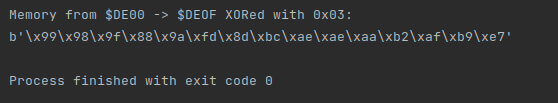
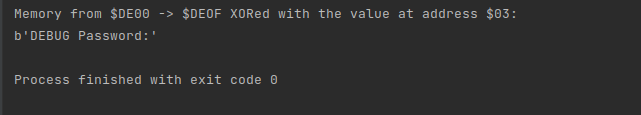
Finish writeup of old school

Changed region(s): [[0.0, 0.2621, 0.914, 0.4078], [0.0, 0.0583, 0.8226, 0.2039], [0.0, 0.6408, 0.4875, 0.8447]]

diff --git a/reverse_engineering/old_school/5_extract_constants.py b/reverse_engineering/old_school/5_extract_constants.py
@@ -1,4 +1,39 @@
 with open("Reaper.bin", "rb") as f:
-    print("Memory from $DE00 -> $DEOF XORed with 0x03:")
-    f.seek(0xDE00)
-    print(bytes([x ^ 0x03 for x in f.read(0x0F)]))
+    reaper_bin = list(f.read())
+
+    print("Memory from $DE00 -> $DEOF XORed with the value at address $03:")
+    xor_constant = reaper_bin[0x03]
+    print(bytes([x ^ xor_constant for x in reaper_bin[0xDE00:0xDE0F]]))
+
+    print("Memory from $DD50 -> $DD6e XORed with indirect values from addresses stored at $03 -> $21:")
+    payload = []
+    for i in range(0x1e):
+        # Load A from memory
+        A = reaper_bin[0xDD50 + i]
+
+        # Alpha indirect addressing implementation:
+        # uint64_t rax_559 = (arg1[1] + r11[1]);
+        # bool rdx_379 = rcx[(rcx[rax_559] | (rcx[(rax_559 + 1)] << 8))];
+
+        indirect_address = 0x03 + i
+        address = reaper_bin[indirect_address] | (reaper_bin[(indirect_address + 1)] << 8)
+        value = reaper_bin[address]
+
+        A ^= value
+
+        payload.append(A)
+    print(bytes(payload))
+
+    print("Memory from $DD80 XORed with the value at address $DE:")
+    xor_constant = reaper_bin[0xDE]
+
+    payload = []
+    i = 0
+    while (c := reaper_bin[0xDD80 + i]) != 0x00:
+        payload.append(c ^ xor_constant)
+        i += 1
+
+    print(bytes(payload))
+
+
+

diff --git a/reverse_engineering/old_school/README.md b/reverse_engineering/old_school/README.md
@@ -18,6 +18,7 @@ By the process of elimination, that file is probably `Reaper.bin`. Let's try it 
 
 Nice! Seems like `Reaper.bin` probably contains some small program that requires us to provide a password,
 which we'll give to access the key.
+When we enter `30` characters into the password prompt, the screen is cleared.
 
 ## Part 2 - The ROM
 
@@ -185,6 +186,7 @@ Here is a quick reference table (homemade) for the instructions this program use
 | INX         | Increment X             | Add `1` to the `X` register                                                                                                        |
 | DEC         | Decrement               | Decrement a value in memory.                                                                                                       |
 |             | ----------------------- | ---------------------------------------------------------------------------------------------------------------------------------- |
+| CMP         | Compare against A       | Compare the value in the `A` register to some value, saving whether it was equal, less than, or greater than to the **CPU flags**  |
 | CPX         | Compare against X       | Compare the value in the `X` register to some value, saving whether it was equal, less than, or greater than to the **CPU flags**  |
 | BNE         | Branch if not equal     | Jump execution to a different location in the code if the last comparison **did not** set the `equals` cpu flag.                   |
 | BEQ         | Branch if equal         | Jump execution to a different location in the code if the last comparison set the `equals` cpu flag.                               |
@@ -194,7 +196,7 @@ Here is a quick reference table (homemade) for the instructions this program use
 | RTS         | Return from Subroutine  | Jump execution back to the code that called this subroutine.                                                                       |
 
 With this, we should now be able to analyze our subroutines instruction-by-instruction.
-Let's dive into deciphering the meaning of each! We'll start with the subroutines that don't call any others:
+Let's dive into deciphering the meaning of each!
 
 ### Subroutine 1
 
@@ -204,7 +206,7 @@ Let's dive into deciphering the meaning of each! We'll start with the subroutine
 101E   8D 60 20             STA $2060
 1021   A2 00                LDX #$00    ; Set X to 0
 1023   BD 00 DE   L1023     LDA $DE00,X ; Load the value at memory address $DE00 + X to A
-1026   45 03                EOR $03     ; XOR A with 0x03
+1026   45 03                EOR $03     ; XOR A with the value stored at address 0x03
 1028   9D 61 20             STA $2061,X ; Store A to the memory address $2061 + X
 102B   E8                   INX         ; Increment X
 102C   E0 0F                CPX #$0F    ; If X is not equal to 0x0F, branch back to offset L1023
@@ -219,24 +221,29 @@ So for `X=0`, we'd load from `$DE00`, but for `X=5`, we'd load from `$DE05`
 
 With these translations, we can start to get an idea of what the program is doing.
 First, it stores one byte to `$2060`.
-Then in a loop, it takes one byte from memory, XORs it with `0x03`, and stores it back to a different point in memory.
+Then in a loop, it takes one byte from memory, XORs it with the value stored at `0x03`, and stores it back to a different point in memory.
 
-Ultimately, it takes the block of memory from `$DE00` to `$DE0F`, and writes it back to the location `$2061` (XORed by `0x03`).
+Ultimately, it takes the block of memory from `$DE00` to `$DE0F`, and writes it back to the location `$2061` (XORed by some value).
 
-A quick python script to perform this operation and print it out doesn't reveal anything useful (yet), but it's good to keep in mind.
+A quick python script to perform this operation:
 
 [5_extract_constants.py](./5_extract_constants.py)
 
 ```py
 with open("Reaper.bin", "rb") as f:
-    print("Memory from $DE00 -> $DEOF XORed with 0x03:")
-    f.seek(0xDE00)
-    print(bytes([x ^ 0x03 for x in f.read(0x0F)]))
+    reaper_bin = list(f.read())
+
+    print("Memory from $DE00 -> $DEOF XORed with the value at address $03:")
+    xor_constant = reaper_bin[0x03]
+    print(bytes([x ^ xor_constant for x in reaper_bin[0xDE00:0xDE0F]]))
 ```
 
 ![](./_images/de00-de0f.png)
 
-Maybe this could be preparing a set of data to use later. We'll call this function `preprocess_data`.
+This seems to be the prompt we're given when the program starts!
+This likely means that the address it is written, `$2061`, is some sort of output/screen buffer. That's good to keep in mind.
+
+We'll call this function `write_prompt`
 
 ### Subroutine 3
 
@@ -249,15 +256,218 @@ Maybe this could be preparing a set of data to use later. We'll call this functi
 
 This subroutine is simple, but obscure.
 We'll hope for now that we can better analyze it in context.
-We'll call this function `load_c000`
+We'll call this function `load_c000 -> A`
+
+### Subroutine 2
+
+```asm
+; Subroutine 2
+1031   AD 02 F0   L1031     LDA $F001   ; Load the value at address $F001 to A
+1034   F0 FB                BEQ L1031   ; Loop if the value read was 0
+1036   20 45 10             JSR L1045   ; Call the "load_c000 -> A" subroutine
+1039   9D 10 DD             STA $DD10,X ; Store A to [$DD10 + X]
+103C   9D 71 20             STA $2071,X ; Store A to [$2071 + X]
+103F   E8                   INX         ; Increment X by 1
+1040   E0 1E                CPX #$1E    ; Loop if X is not equal to 0x1E
+1042   D0 ED                BNE L1031
+1044   60                   RTS         ; Exit the subroutine
+```
+
+This subroutine is another loop indexed with `X`.
+
+The first two instructions are a smaller, nested loop, jumping back and forth until $F001 is 0.
+Nothing here changes that address, so this must be some a special memory location that updates in response to something outside the program.
+
+Once the change is detected, the `load_c000 -> A` function is called.
+`c000` is another address that is never modified, maybe it is also a special location that updates for user input?
+
+The value of A is then stored to both a section of memory `$DD10` and our output/screen buffer from before!
+
+Putting all of this together, it seems like this function is mostly likely an "input collection" routine,
+reading characters of user input and writing them back to the screen and storing them in a location `$DD10`.
+This perfectly explains why we need to type `0x1e` (30) characters for the program to advance!
+
+We'll call this subroutine `input`, and we'll call the block of data it writes (`$DD10`) the "input buffer".
 
 ### Subroutine 4
 
 ```asm
 ; Subroutine 4
-104C   BD 50 DD   L104C     LDA $DD50,X ; Load the value at $DD50 + X to A
-104F   41 03                EOR ($03,X) ; XOR the value at A with 
-1051   DD 10 DD             CMP $DD10,X
+104C   BD 50 DD   L104C     LDA $DD50,X ; Load the value at address [$DD50 + X] to A
+104F   41 03                EOR ($03,X) ; XOR the value in A **indirectly** with the value contained at the address contained at [$03 + X]
+1051   DD 10 DD             CMP $DD10,X ; Loop back to the start if A equals the value at [$DD10 + X]
 1054   F0 F6                BEQ L104C
-1056   60                   RTS
+1056   60                   RTS         ; Exit the subroutine
 ```
+
+Here we see our first case of **indirect** indexing.
+Line `104F` contains the instruction `EOR ($03,X)`.
+The parenthesis here mean that, instead of treating the address `[$03 + X]` as data,
+we treat it as holding **another address**.
+The location pointed to by that address is what actually contains the data.
+
+So, this subroutine seems to compare the data from some section of memory (`$DD50`) XORed
+with some value we've looked up indirectly from the binary.
+Seems like this could check the validity of our password!
+We'll call this subroutine `check_input`.
+
+### Subroutine 5
+
+```asm
+; Subroutine 5
+1057   A2 00      L1057     LDX #$00    ; Load 0 to X
+1059   A9 00      L1059     LDA #$00    ; Load 0 to a
+105B   9D 10 DD             STA $DD10,X ; Store A to the address [$DD10 + X]
+105E   9D 71 20             STA $2071,X ; Store A to the address [$2071 + X]
+1061   E8                   INX         ; Increment X by 1
+1062   E0 1E                CPX #$1E    ; Loop back to the start if X != 0x1E
+1064   D0 F3                BNE L1059   
+1066   60                   RTS         ; Exit the subroutine
+```
+
+This subroutine contains another loop over X.
+This time, it seems like it stores `0x1E` (30) bytes of `0x00` to two blocks of memory: `$DD10 to $DD2e` and `$2071 to $208f`.
+These are the user input and output/screen buffer respectively.
+We'll call this subroutine `clear_memory`.
+
+### Subroutine 6
+
+```asm
+; Subroutine 6
+1067   A2 00      L1067     LDX #$00    ; Load 0 to X
+1069   BD 80 DD   L1069     LDA $DD80,X ; Load the value at [$DD80 + X] to A
+106C   F0 12                BEQ L1080   ; If A = 0, then break the loop
+106E   85 25                STA $25     ; Store A to the address $25
+1070   BD 00 07             LDA $0700,X ; Load the value at [$0700 + X] to A
+1073   41 03                EOR ($03,X) ; XOR the value in A **indirectly** with the value contained at the address contained at [$03 + X]
+1075   A5 25                LDA $25     ; Load the value previously stored to address $25 to A
+1077   45 DE                EOR $DE     ; XOR the value in A with the value at the address $DE
+1079   9D 71 20             STA $2071,X ; Store A to the address [$2071 + X]
+107C   E8                   INX         ; Increment X by 1
+107D   4C 69 10             JMP L1069   ; Loop back to the start
+1080   60         L1080     RTS         ; Exit the subroutine
+```
+
+This is another loop, but instead of looping to a particular value, it seems like
+it loops until a 0 is read from memory.
+
+Memory is read from `$DD80` plus some offset,
+but then it is stored, 
+before an additional value is loaded and XORed (lines `1070` and `1073`).
+However, you'll notice that those values are never used, and they're immediately overwritten by reloading the data we
+originally retrieved.
+These intermediate steps are just a red herring.
+Without this, we can rewrite this function as:
+
+```asm
+; Subroutine 6
+1067   A2 00      L1067     LDX #$00    ; Load 0 to X
+1069   BD 80 DD   L1069     LDA $DD80,X ; Load the value at [$DD80 + X] to A
+106C   F0 12                BEQ L1080   ; If A = 0, then break the loop
+1077   45 DE                EOR $DE     ; XOR the value in A with the value at the address $DE
+1079   9D 71 20             STA $2071,X ; Store A to the address [$2071 + X]
+107C   E8                   INX         ; Increment X by 1
+107D   4C 69 10             JMP L1069   ; Loop back to the start
+1080   60         L1080     RTS         ; Exit the subroutine
+```
+
+This shows much more clearly that the block of memory read from `$DD80` is XORed by some constant
+from memory, before being stored back to `$2071`.
+
+To figure out the data that's being read, let's write a python script to repeat this process by editing our earlier script:
+
+[5_extract_constants.py](./5_extract_constants.py)
+
+```py
+with open("Reaper.bin", "rb") as f:
+    ...
+
+    print("Memory from $DD80 XORed with the value at address $DE:")
+    xor_constant = reaper_bin[0xDE]
+
+    payload = []
+    i = 0
+    while (c := reaper_bin[0xDD80 + i]) != 0x00:
+        payload.append(c ^ xor_constant)
+        i += 1
+
+    print(bytes(payload))
+```
+
+![](./_images/dd80_xor.png)
+
+Now we're getting somewhere! This subroutine results in this ominous message being written to the output buffer.
+Let's call this function `write_message`
+
+Now that we understand each of the subroutines, let's put them together with the main function.
+
+## Part 5 - Program Flow
+
+Substituting in all of our function calls, we have our main function:
+
+```asm
+; "Main" code
+1000   20 57 10   L1000     JSR L1057   ; clear_memory
+1003   20 1C 10             JSR L101C   ; write_prompt
+1006   A2 00                LDX #$00    ; Write 0 to $F001
+1008   8E 01 F0             STX $F001
+100B   20 31 10             JSR L1031   ; input
+100E   A2 00                LDX #$00    ; Set X to 0
+1010   20 4C 10             JSR L104C   ; check_input
+1013   D0 EB                BNE L1000   ; Loop back if the check_input call ended with a byte being not equal to the expected password
+1015   20 67 10   L1015     JSR L1067   ; write_message
+1018   4C 15 10             JMP L1015   ; Loop and write the output message again
+101B   00                   BRK
+```
+
+Putting everything together, it seems like our program is waiting for input,
+writing it to `$DD10`,
+checking it with check_input,
+and then calling `write_message` if the check succeeds.
+
+We could try to decipher the password check_input is expecting,
+but this is actually much harder (impossible?) to do in comparison to extracting the message right from `write_message`.
+
+> As an aside, I have put quite a bit of effort into extracting the password,
+> and with how the binary and emulator is configured, I don't think it's possible.
+> The password (checked with a dynamic emulator at the comparison at offset `$1051`) is expected to be:
+> ```py 
+> b'\xa2XQJVTIFZW@A\x06WU]D\\OBYGNKHS_CRM' 
+> ```
+> There is one unprintable and one invalid ASCII character here, and the emulator specifically throws away non-printable
+> characters, with the following segment of the decompiled `main` function:
+> ```c
+> int32_t rax_46 = wgetch(stdscr);
+> if ((rax_46 - 0x20) <= 0x5e)
+> {
+>     void* rdx_4;
+>     rdx_4 = rax->ident.abi_version;
+>     *rdx_4[1] = rax->ident.pad[0];
+>     *rdx_4[2] = rax->ident.pad[1];
+>     *rdx_4[3] = rax->ident.pad[2];
+>     *rdx_4[4] = rax->ident.pad[3];
+>     *rdx_4[5] = rax->ident.pad[4];
+>     *rdx_4[6] = rax->ident.pad[5];
+>     *rdx_4[7] = rax->ident.pad[6];
+>     *(rdx_4 + 0xf001) = 1;
+>     void* rdx_5;
+>     rdx_5 = rax->ident.abi_version;
+>     *rdx_5[1] = rax->ident.pad[0];
+>     *rdx_5[2] = rax->ident.pad[1];
+>     *rdx_5[3] = rax->ident.pad[2];
+>     *rdx_5[4] = rax->ident.pad[3];
+>     *rdx_5[5] = rax->ident.pad[4];
+>     *rdx_5[6] = rax->ident.pad[5];
+>     *rdx_5[7] = rax->ident.pad[6];
+>     *(rdx_5 + 0xc000) = rax_46;
+> }
+> ```
+> You can see `$f001` being set to `1`, and `$c000` being set to the input character,
+> just as we guessed from the `input` routine!
+> But you can also see that `rax_46` must be within the range 0x20-0x7e, so there is no way to input the required `0xa2` or `0x06` bytes.
+> 
+> If anyone figures out if there is a password that works here, I would be very happy to know! But for the time being,
+> we'll extract the message from the binary and assume that the password is left incomplete.
+
+And as it turns out, the ominous message was the key we needed! Inputting `We are safe... or maybe not. Welcome the Reapers...` to the netcat terminal gives us the key.
+Pwned/QED
